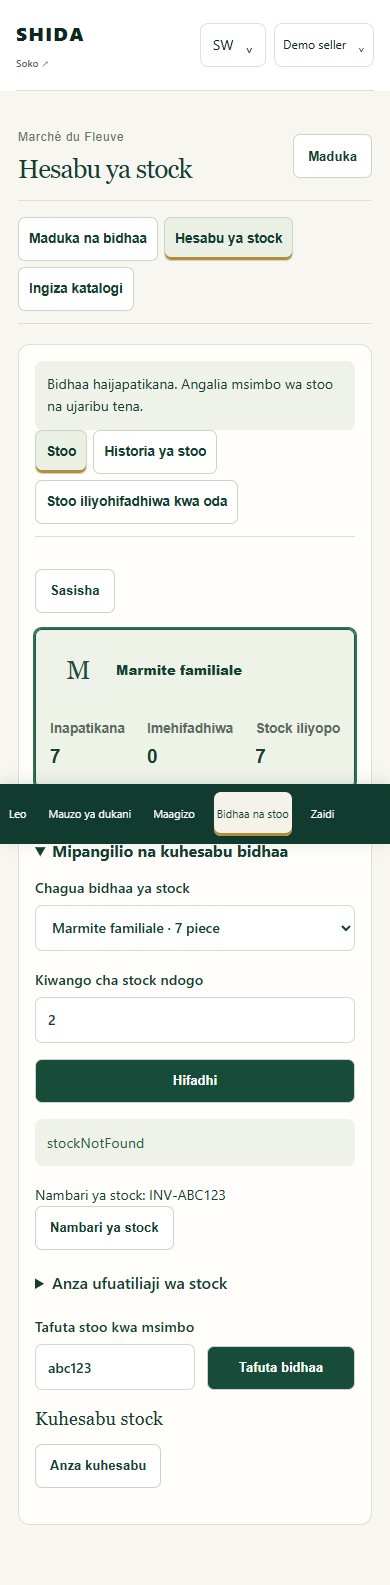
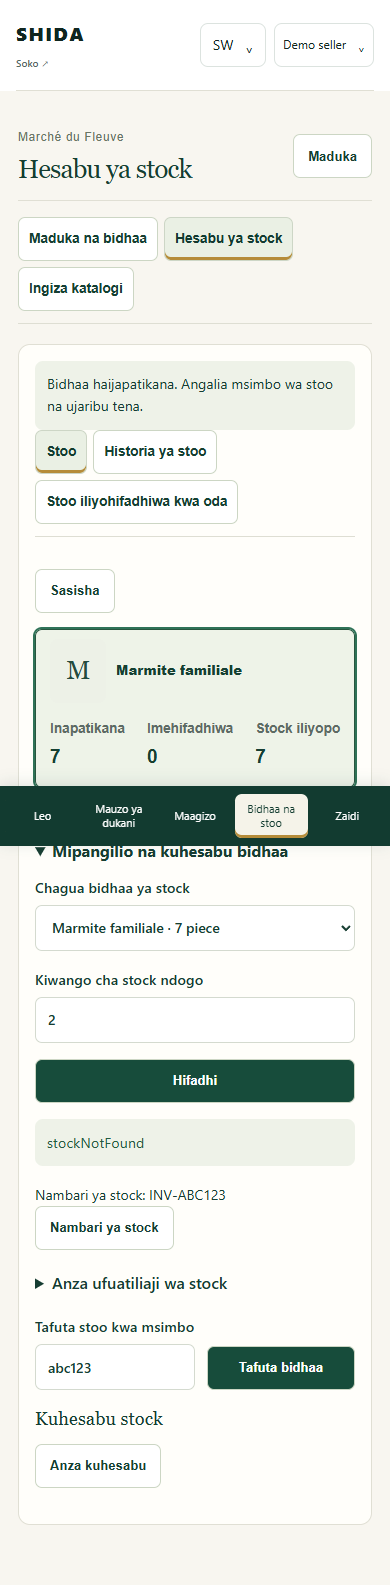
Fix Wenze desktop navigation contrast and responsive visibility

Changed region(s): [[0.4, 0.4946, 0.9231, 0.5565], [0.0923, 0.4946, 0.3692, 0.5256], [0.0308, 0.4946, 0.0615, 0.5256]]

diff --git a/app/components/shida/wenze-approved-ux.css b/app/components/shida/wenze-approved-ux.css
@@ -3,14 +3,14 @@
 .wz-personal .seller-layout{grid-template-columns:220px minmax(0,1fr);gap:32px}
 .wz-personal .seller-sidebar{background:#123b30;color:#fff;border-radius:16px;padding:20px 14px;align-self:start;position:sticky;top:24px}
 .wz-personal .seller-identity{padding:4px 8px 24px;border-color:#ffffff26}.wz-personal .seller-identity small{color:#d0ddd3}.wz-personal .seller-identity>span{background:#f4f2e9;color:#173d32}
-.wz-personal .seller-navigation{display:flex;flex-direction:column;gap:6px}.wz-personal .seller-navigation button{color:#e0e9e4;background:transparent;border:0;border-radius:8px;text-align:left;min-height:48px}.wz-personal .seller-navigation button:hover{background:#ffffff14}.wz-personal .seller-navigation button[aria-current=page]{background:#f5f3e9;color:#123b30;box-shadow:inset 3px 0 #b58c39}
+.seller-design .wz-personal .seller-sidebar .seller-navigation{display:flex;flex-direction:column;gap:6px}.seller-design .wz-personal .seller-sidebar .seller-navigation button{color:#e0e9e4;background:transparent;border:0;border-radius:8px;text-align:left;min-height:48px}.seller-design .wz-personal .seller-sidebar .seller-navigation button:hover{background:#ffffff14}.seller-design .wz-personal .seller-sidebar .seller-navigation button[aria-current=page]{background:#f5f3e9;color:#123b30;box-shadow:inset 3px 0 #b58c39}
 .wz-personal .wz .seller-heading{margin-bottom:24px;padding-bottom:20px}.wz-personal .wz .seller-heading h1{font-size:clamp(1.8rem,3vw,2.65rem);line-height:1.15}
 .wz-personal .wz .wz-section-tabs,.wz-personal .wz .wz-product-tabs,.wz-personal .wz .wz-shop-tabs{display:flex;flex-wrap:wrap;gap:8px;margin:0 0 20px;border-bottom:1px solid #deded3;padding:0 0 12px}
 .wz-personal .wz nav button[aria-current=page]{background:#eaf0e4;border-color:#cdd6c6;box-shadow:inset 0 -3px #b58c39;color:#123b30;font-weight:700}
 .wz-personal .wz label{margin:0;gap:7px}.wz-personal .wz .wz-inline{align-items:end}.wz-personal .wz .wz-inline>label{flex:1 1 180px}.wz-personal .wz .wz-inline>button{min-height:44px;margin:0}.wz-personal .wz .wz-fields{align-items:end}.wz-personal .wz .wz-fields>button{min-height:44px;align-self:end;margin:0}
 .wz-personal .wz .wz-form-feedback{grid-column:1/-1;margin:0;min-height:22px;color:#245b41;font-size:.9rem}.wz-personal .wz .wz-save-bar{padding:14px 0;border-top:1px solid #deded3}.wz-save-bar>span{flex:1 1 160px}
 .wz-personal .wz .wz-confirm{color:#173d32;background:#fffdf7;border:1px solid #d7dccf;border-radius:16px;padding:28px;width:min(440px,calc(100vw - 32px));box-shadow:0 20px 90px #123b3033}.wz-confirm::backdrop{background:#102a2266}
-.wz-mobile-navigation{display:none}.wz-pos-product-button{width:100%;height:100%;text-align:left;display:flex;flex-direction:column;gap:8px}.wz-pos-product-button img{width:100%;object-fit:contain}.wz-sale-success{display:flex;align-items:center;justify-content:space-between;gap:16px;padding:18px;background:#eaf0e4;border-radius:12px;margin-bottom:20px}.wz-sale-success p{margin:6px 0}.wz-personal .wz .wz-stock-toolbar{display:flex;justify-content:space-between;gap:12px;align-items:start}.wz-stock-toolbar nav{flex:1}
-@media(max-width:760px){.wz-personal.seller-workspace{padding:14px 12px 100px}.wz-personal .seller-layout{display:block}.wz-personal .seller-sidebar{position:static;padding:0;background:transparent;color:#173d32}.wz-personal .seller-identity{display:none}.wz-desktop-navigation{display:none}.wz-mobile-navigation{position:fixed;z-index:45;bottom:0;left:0;right:0;background:#123b30;display:grid;grid-template-columns:repeat(5,minmax(0,1fr));gap:3px;padding:8px 6px calc(8px + env(safe-area-inset-bottom));box-shadow:0 -2px 15px #123b3020}.wz-mobile-navigation>button{background:transparent;border:0;border-radius:7px;color:#fff;font:inherit;font-size:11px;line-height:1.3;min-height:48px;padding:6px 3px;overflow-wrap:anywhere}.wz-mobile-navigation>button[aria-current=page]{background:#f5f3e9;color:#123b30;box-shadow:inset 0 -3px #b58c39}.wz-more-menu{position:absolute;bottom:100%;right:8px;background:#fffdf7;border:1px solid #deded3;border-radius:12px;padding:8px;box-shadow:0 -6px 24px #123b3020}.wz-more-menu button{display:block;min-height:48px;background:transparent;border:0;padding:12px 20px;color:#123b30}.wz-personal .wz .wz-fields{grid-template-columns:1fr}.wz-personal .wz .wz-inline>button{width:auto}.wz-personal .wz .wz-section-tabs{gap:6px}.wz-personal .wz .wz-section-tabs button{font-size:.85rem;padding:10px}.wz-sale-success{align-items:start;flex-direction:column}.wz-personal .wz-basket-jump{bottom:calc(78px + env(safe-area-inset-bottom))}.wz-personal .wz .wz-stock-toolbar{flex-direction:column}.wz-personal .wz .wz-stock-card{flex-wrap:wrap}.wz-personal .wz .wz-stock-card dl{flex-basis:100%}}
+.seller-design .wz-personal .wz-mobile-navigation{display:none}.wz-pos-product-button{width:100%;height:100%;text-align:left;display:flex;flex-direction:column;gap:8px}.wz-pos-product-button img{width:100%;object-fit:contain}.wz-sale-success{display:flex;align-items:center;justify-content:space-between;gap:16px;padding:18px;background:#eaf0e4;border-radius:12px;margin-bottom:20px}.wz-sale-success p{margin:6px 0}.wz-personal .wz .wz-stock-toolbar{display:flex;justify-content:space-between;gap:12px;align-items:start}.wz-stock-toolbar nav{flex:1}
+@media(max-width:760px){.wz-personal.seller-workspace{padding:14px 12px 100px}.wz-personal .seller-layout{display:block}.wz-personal .seller-sidebar{position:static;padding:0;background:transparent;color:#173d32}.wz-personal .seller-identity{display:none}.wz-desktop-navigation{display:none}.seller-design .wz-personal .wz-mobile-navigation{position:fixed;z-index:45;bottom:0;left:0;right:0;background:#123b30;display:grid;grid-template-columns:repeat(5,minmax(0,1fr));gap:3px;padding:8px 6px calc(8px + env(safe-area-inset-bottom));box-shadow:0 -2px 15px #123b3020}.wz-mobile-navigation>button{background:transparent;border:0;border-radius:7px;color:#fff;font:inherit;font-size:11px;line-height:1.3;min-height:48px;padding:6px 3px;overflow-wrap:anywhere}.wz-mobile-navigation>button[aria-current=page]{background:#f5f3e9;color:#123b30;box-shadow:inset 0 -3px #b58c39}.wz-more-menu{position:absolute;bottom:100%;right:8px;background:#fffdf7;border:1px solid #deded3;border-radius:12px;padding:8px;box-shadow:0 -6px 24px #123b3020}.wz-more-menu button{display:block;min-height:48px;background:transparent;border:0;padding:12px 20px;color:#123b30}.wz-personal .wz .wz-fields{grid-template-columns:1fr}.wz-personal .wz .wz-inline>button{width:auto}.wz-personal .wz .wz-section-tabs{gap:6px}.wz-personal .wz .wz-section-tabs button{font-size:.85rem;padding:10px}.wz-sale-success{align-items:start;flex-direction:column}.wz-personal .wz-basket-jump{bottom:calc(78px + env(safe-area-inset-bottom))}.wz-personal .wz .wz-stock-toolbar{flex-direction:column}.wz-personal .wz .wz-stock-card{flex-wrap:wrap}.wz-personal .wz .wz-stock-card dl{flex-basis:100%}}
 
 .wz-personal .wz [hidden]{display:none!important}.wz-personal .wz .wz-pos-product-button{padding:0;border:0;background:transparent}.wz-personal .wz .wz-pos-product-button>div{padding:12px;display:flex;flex-direction:column;gap:7px}.wz-personal .wz .wz-pos-product{overflow:hidden}.wz-personal .wz .wz-pos-product:has(button:not(:disabled)):hover{border-color:#b58c39;box-shadow:0 4px 14px #123b3014}.wz-personal .wz .wz-operations>h2{display:none}.wz-personal .wz .wz-today-metric{border-radius:12px;padding:20px}.wz-personal .wz .wz-today-columns{gap:24px}.wz-personal .wz .wz-today-columns>div{padding:18px;border:1px solid #deded3;border-radius:12px}.wz-personal .wz .wz-day-zone{max-width:240px}.wz-personal .wz .wz-pos-search{margin-top:12px}

diff --git a/tests/browser/wenze-approved-ux.browser.ts b/tests/browser/wenze-approved-ux.browser.ts
@@ -43,6 +43,8 @@ for(const locale of ['en','fr','ln','sw'] as const)test(`approved seller UX ${lo
  await page.setViewportSize({width:1440,height:1000});await page.goto(url);
  await expect(page.getByText('24',{exact:true})).toBeVisible();
  const evidence=`docs/evidence/wenze-approved-ux/${locale}`;
+ await expect(page.locator('.wz-mobile-navigation')).toBeHidden();
+ await expect(page.locator('.seller-navigation button').nth(1)).toHaveCSS('color','rgb(224, 233, 228)');
  if(locale==='en')await page.screenshot({path:`${evidence}-today-desktop.png`,fullPage:true});
  await page.setViewportSize({width:390,height:844});
  await expect(page.locator('.wz-mobile-navigation')).toBeVisible();
